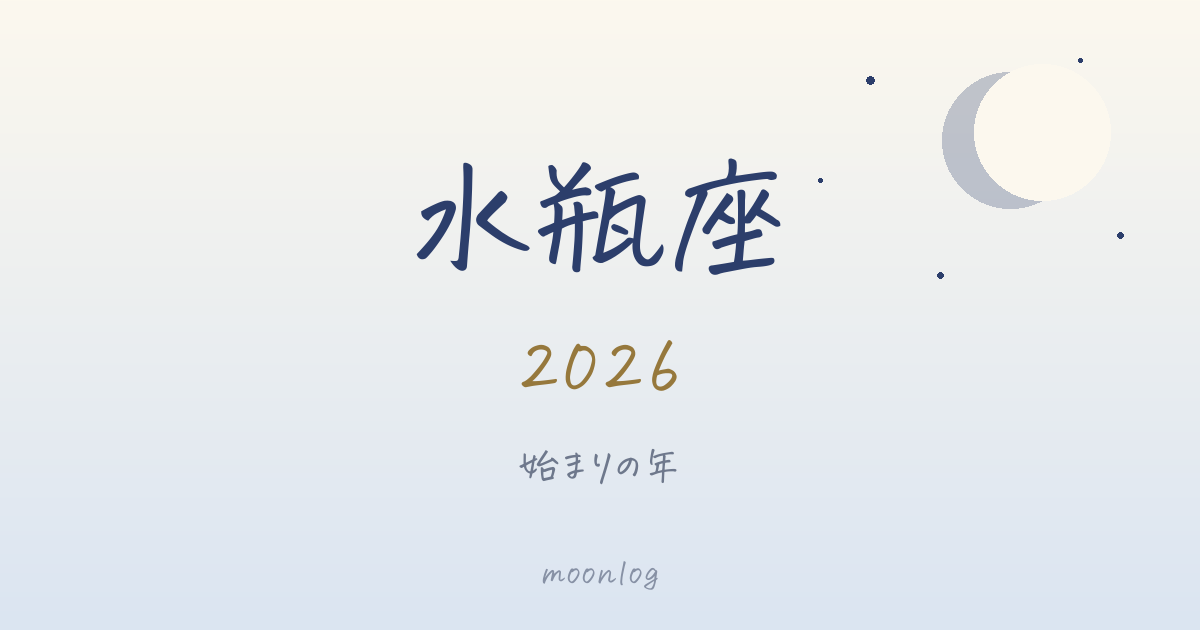
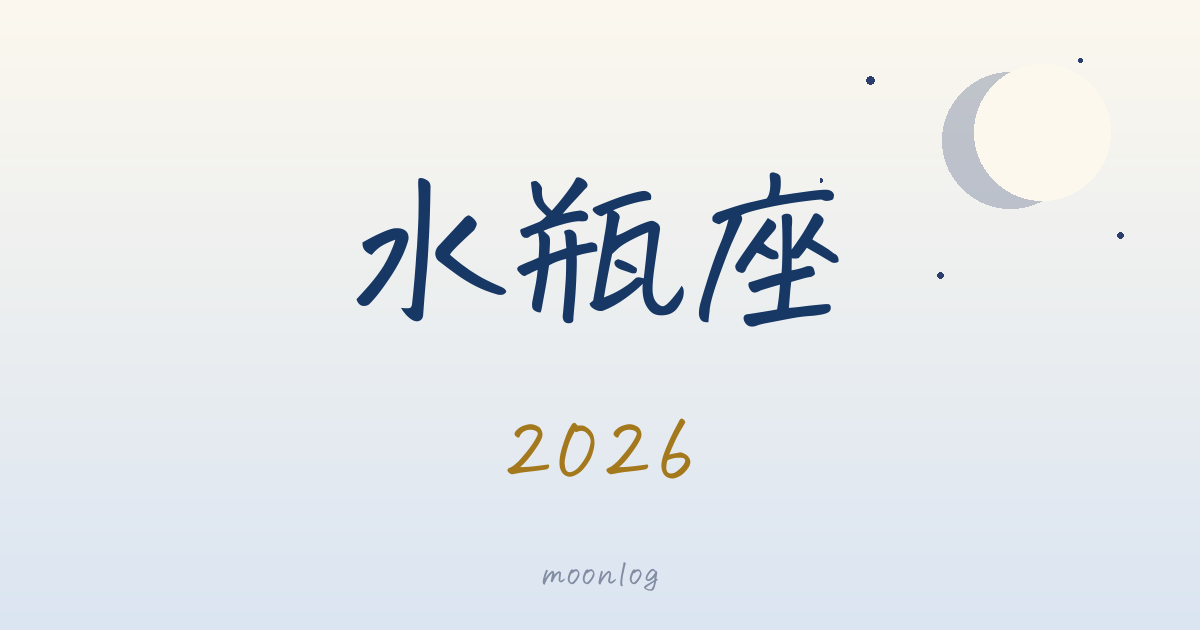
12星座2026サムネ刷新（星座名+2026を大きく・キャッチフレーズ削除・花とちょうちょ）

diff --git a/gen_blog_card.py b/gen_blog_card.py
@@ -1,0 +1,49 @@
+"""12星座ブログサムネ一括生成。
+yagi-2026.png（旧版）の背景＝グラデ＋月＋星をそのまま再利用し、
+文字だけ大きく：星座名＋2026＋moonlog（キャッチフレーズなし）"""
+from PIL import Image, ImageDraw, ImageFont
+
+FONT = "/Users/mitsuinatsuki/Library/Fonts/花とちょうちょ.ttf"
+BASE = "/Users/mitsuinatsuki/Documents/code_yousai/static/images/blog"
+W, H = 1200, 630
+
+NAVY = (23, 55, 100)
+GOLD = (164, 120, 28)
+GRAY = (130, 140, 162)
+
+SIGNS = {
+    "ohitsuji-2026": "牡羊座",
+    "oushi-2026": "牡牛座",
+    "futago-2026": "双子座",
+    "kani-2026": "蟹座",
+    "shishi-2026": "獅子座",
+    "otome-2026": "乙女座",
+    "tenbin-2026": "天秤座",
+    "sasori-2026": "蠍座",
+    "ite-2026": "射手座",
+    "yagi-2026": "山羊座",
+    "mizugame-2026": "水瓶座",
+    "uo-2026": "魚座",
+}
+
+# ── テンプレ背景を山羊座旧版から作る ──
+src = Image.open(f"{BASE}/yagi-2026.png").convert("RGB")
+# 左端の列（文字なし）から縦グラデを全幅に展開
+col = src.crop((8, 0, 9, H)).resize((W, H))
+bg_template = col.copy()
+# 右側ストリップ（月＋星・文字なし）をそのまま貼り戻す
+strip_x = 820
+bg_template.paste(src.crop((strip_x, 0, W, H)), (strip_x, 0))
+
+fn_sign = ImageFont.truetype(FONT, 175)
+fn_year = ImageFont.truetype(FONT, 85)
+fn_brand = ImageFont.truetype(FONT, 32)
+
+for slug, sign in SIGNS.items():
+    img = bg_template.copy()
+    d = ImageDraw.Draw(img)
+    d.text((W // 2, 250), sign, font=fn_sign, fill=NAVY, anchor="mm")
+    d.text((W // 2, 450), "2026", font=fn_year, fill=GOLD, anchor="mm")
+    d.text((W // 2, 575), "moonlog", font=fn_brand, fill=GRAY, anchor="mm")
+    img.save(f"{BASE}/{slug}.png")
+    print("saved", slug)
